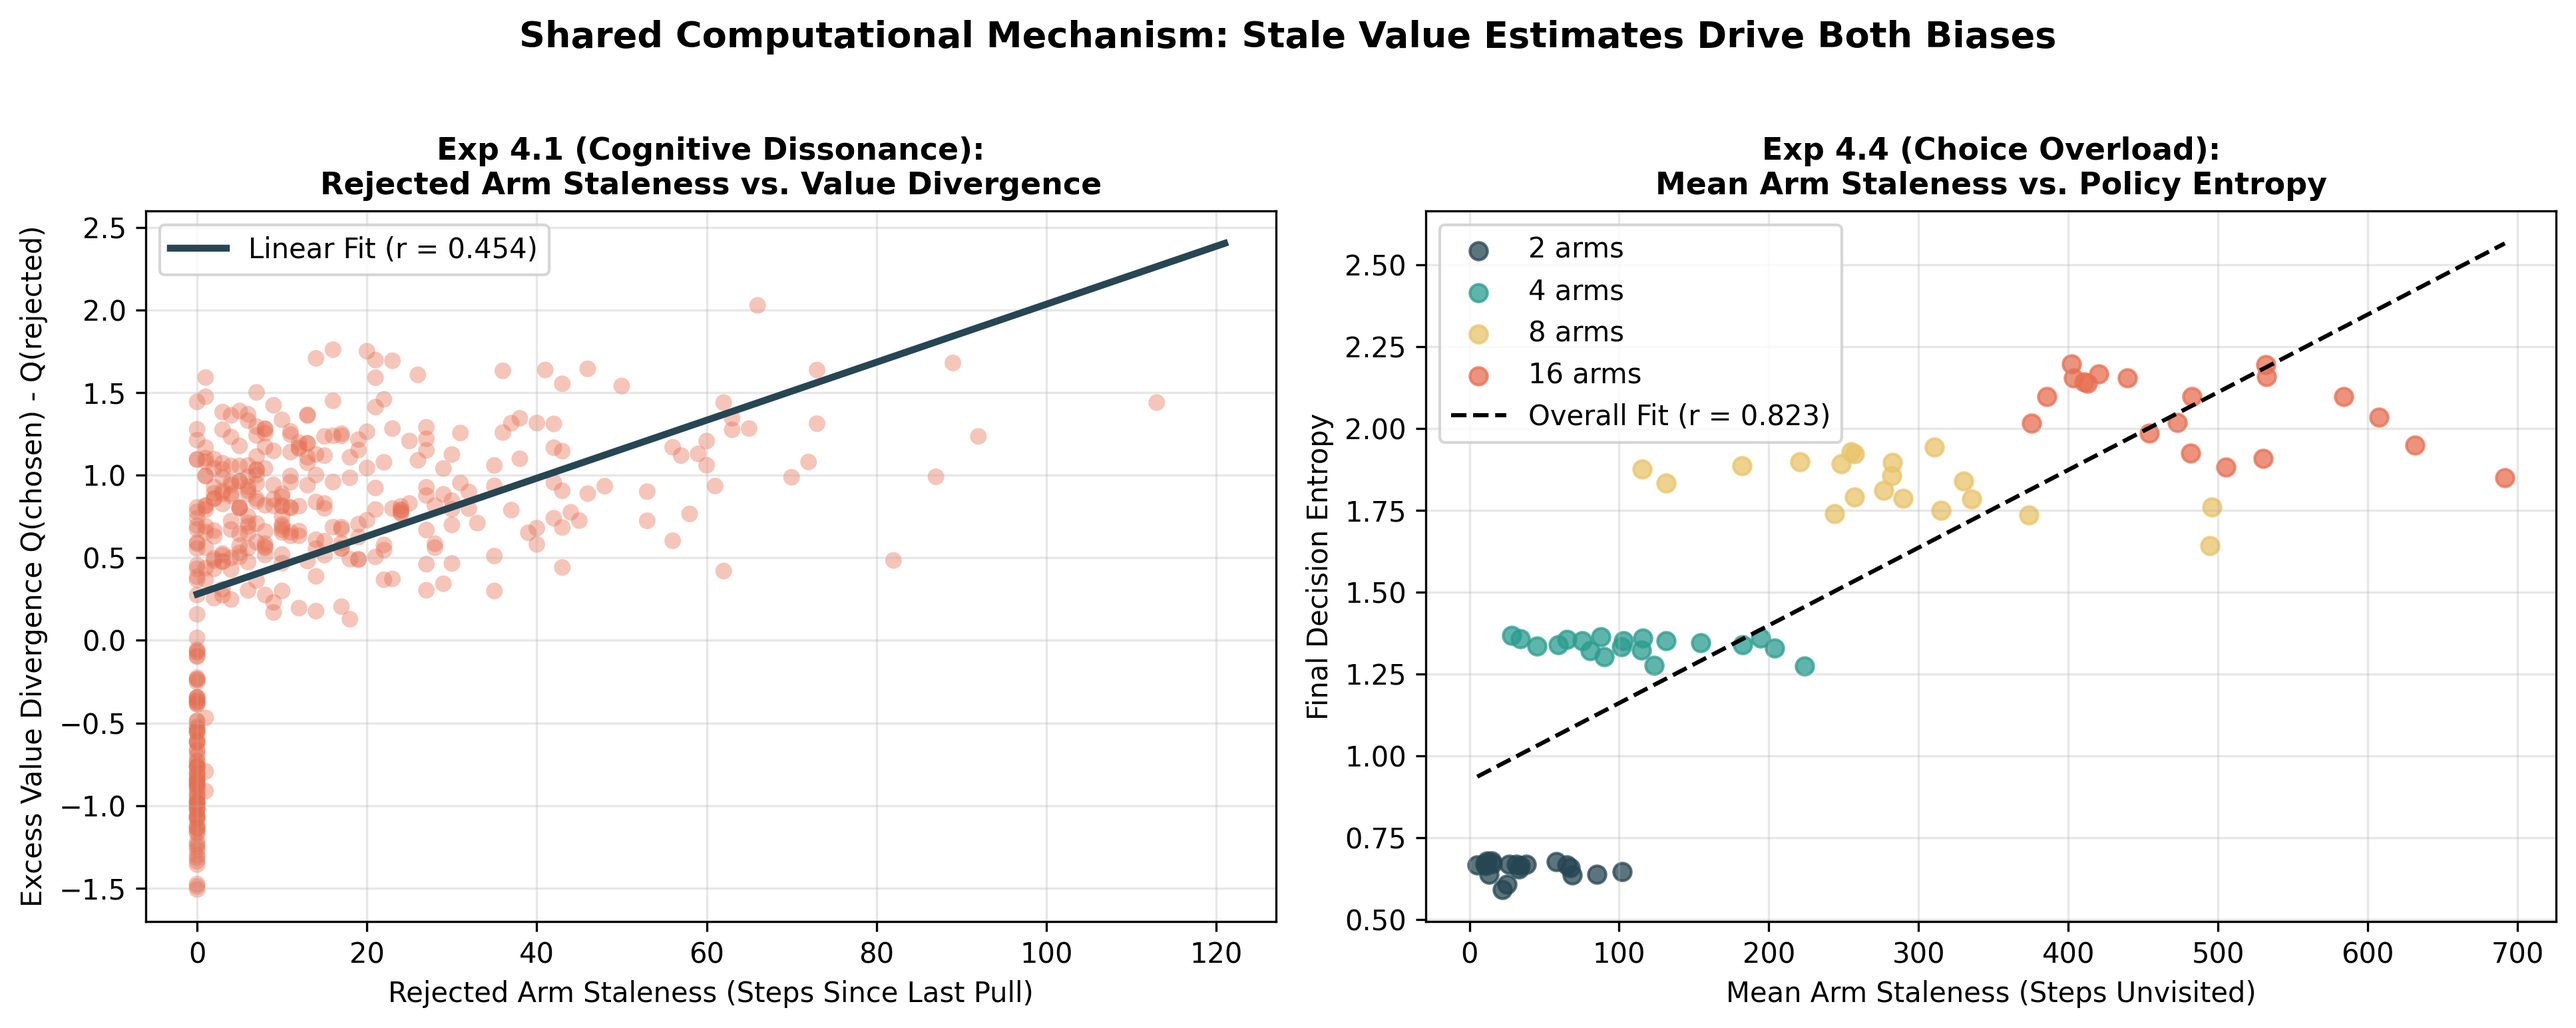
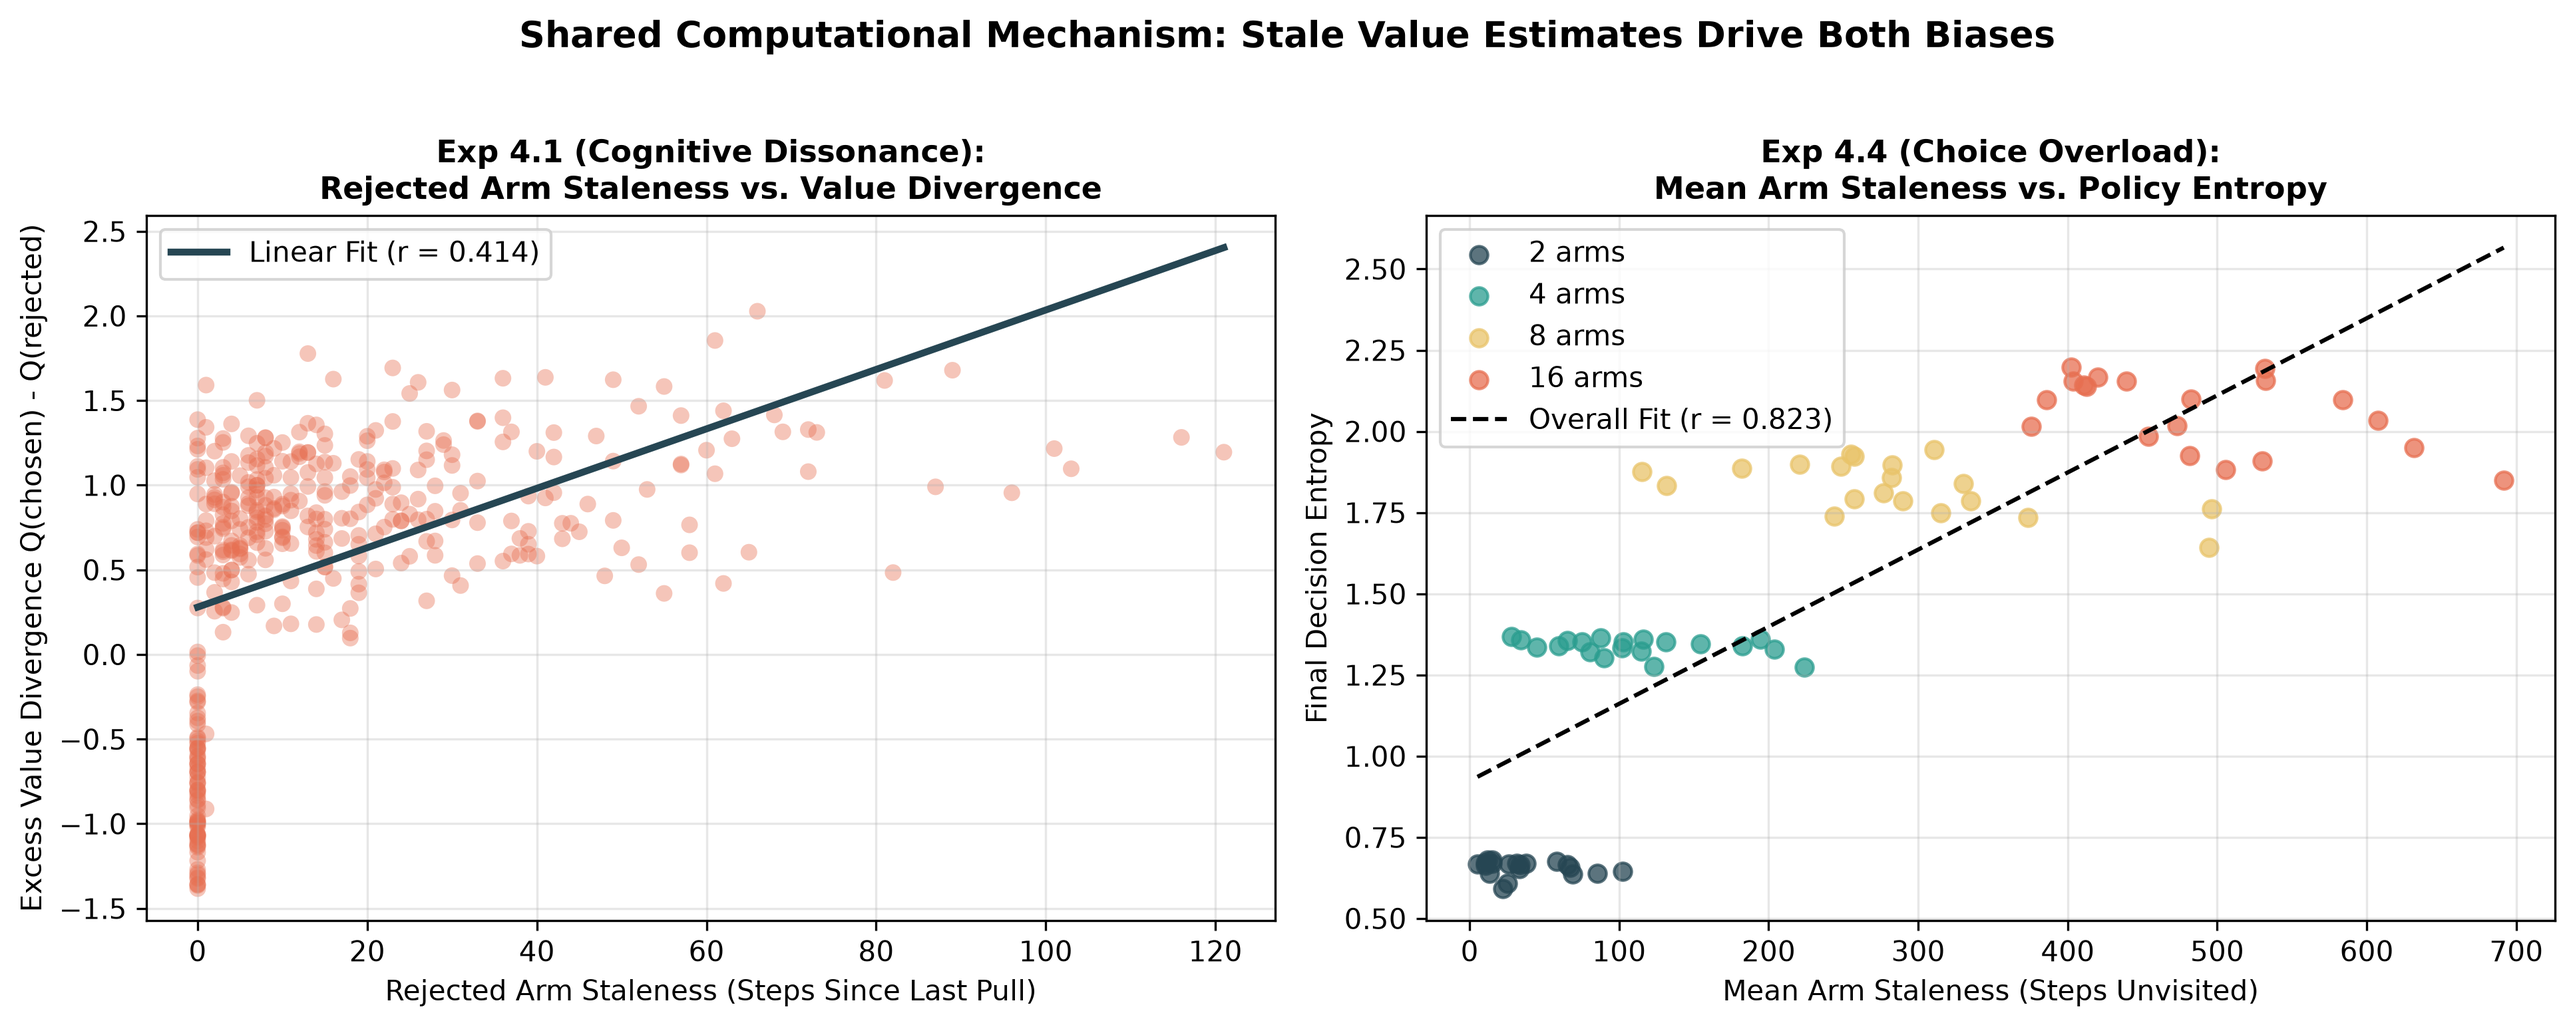
Add reconstructed references.bib; fix pseudo-replicated staleness correlation
- references.bib: reconstruct BibTeX for all 20 cited works (removed in an earlier
  cleanup). 16 canonical entries are accurate; 4 recent/niche entries are marked
  VERIFY with a note to check against primary sources before submission.
- shared_mechanism.py: the Exp 4.1 staleness-vs-divergence correlation pooled every
  (seed, step) timepoint into one Pearson r, which is pseudo-replication (p=4.47e-52
  was meaningless). Now compute the correlation within each seed and aggregate the
  20 independent per-seed estimates via Fisher-z: mean r=0.41, 95% CI [0.30, 0.51],
  p<1e-6 (N=20). Exp 4.4 (r=0.82) is left as-is: its 80 points are one independent
  run per (seed, K).
- paper.tex: update the two staleness stats and the figure caption to the honest
  per-seed values; regenerate shared_mechanism_staleness.png.

Claude-Session: https://claude.ai/code/session_01NRJyUYQCszH2hBx1Gy8SiG

diff --git a/src/analysis/shared_mechanism.py b/src/analysis/shared_mechanism.py
@@ -90,6 +90,7 @@ def analyze_shared_mechanism(results_dir: str = "results/cross_experiment_analys
                 q_vals = agent.get_q_values(0)
                 div = q_vals[chosen_arm] - q_vals[rej_arm]
                 dissonance_staleness_records.append({
+                    "seed": seed,
                     "step": step,
                     "rej_staleness": rej_staleness,
                     "value_divergence": div,
@@ -158,11 +159,37 @@ def analyze_shared_mechanism(results_dir: str = "results/cross_experiment_analys
             })
 
     # Correlations
-    # Exp 4.1: Staleness vs Divergence
+    # Exp 4.1: Staleness vs Divergence.
+    # IMPORTANT: pooling every (seed, step) timepoint into one correlation is
+    # pseudo-replication -- timepoints within a seed are strongly autocorrelated,
+    # so the pooled n is not the number of independent units and the resulting
+    # p-value is meaningless. We instead compute the correlation WITHIN each seed
+    # (across its timepoints) and aggregate the 20 independent per-seed estimates
+    # via a Fisher z-transform, reporting the mean r, a 95% CI, and a one-sample
+    # test against zero with n = 20 seeds.
     stale_4_1 = [r["rej_staleness"] for r in dissonance_staleness_records]
     div_4_1 = [r["value_divergence"] for r in dissonance_staleness_records]
-    r_4_1, p_4_1 = pearsonr(stale_4_1, div_4_1)
-    print(f"\nExp 4.1 Staleness vs Value Divergence: r = {r_4_1:.4f} (p = {p_4_1:.4e})")
+
+    per_seed_r = []
+    for sd in range(n_seeds):
+        s_vals = [r["rej_staleness"] for r in dissonance_staleness_records if r["seed"] == sd]
+        d_vals = [r["value_divergence"] for r in dissonance_staleness_records if r["seed"] == sd]
+        if len(s_vals) > 2 and np.std(s_vals) > 0 and np.std(d_vals) > 0:
+            per_seed_r.append(pearsonr(s_vals, d_vals)[0])
+    per_seed_r = np.array(per_seed_r)
+
+    # Fisher z-transform aggregation across the independent per-seed correlations
+    z = np.arctanh(np.clip(per_seed_r, -0.9999, 0.9999))
+    from scipy.stats import t as _t
+    mean_z, se_z = np.mean(z), np.std(z, ddof=1) / np.sqrt(len(z))
+    r_4_1 = float(np.tanh(mean_z))                      # aggregate correlation
+    tcrit = _t.ppf(0.975, df=len(z) - 1)
+    ci_4_1 = (float(np.tanh(mean_z - tcrit * se_z)), float(np.tanh(mean_z + tcrit * se_z)))
+    t_stat_4_1 = float(mean_z / se_z)
+    p_4_1 = float(2 * _t.sf(abs(t_stat_4_1), df=len(z) - 1))  # one-sample test vs 0, n=20
+    print(f"\nExp 4.1 Staleness vs Value Divergence (per-seed, N={len(z)} seeds): "
+          f"mean r = {r_4_1:.3f}, 95% CI [{ci_4_1[0]:.3f}, {ci_4_1[1]:.3f}], "
+          f"t({len(z)-1}) = {t_stat_4_1:.2f}, p = {p_4_1:.2e}")
 
     # Exp 4.4: Mean Staleness vs Final Entropy
     all_k_stale = []
@@ -224,8 +251,13 @@ def analyze_shared_mechanism(results_dir: str = "results/cross_experiment_analys
     summary = {
         "exp_4_1_staleness_divergence_r": float(r_4_1),
         "exp_4_1_staleness_divergence_p": float(p_4_1),
+        "exp_4_1_method": "per-seed correlation, Fisher-z aggregated (N=20 independent seeds)",
+        "exp_4_1_r_ci95": [ci_4_1[0], ci_4_1[1]],
+        "exp_4_1_n_seeds": int(len(z)),
+        "exp_4_1_per_seed_r": [float(x) for x in per_seed_r],
         "exp_4_4_staleness_entropy_r": float(r_4_4),
         "exp_4_4_staleness_entropy_p": float(p_4_4),
+        "exp_4_4_n_runs": len(all_k_stale),  # one independent run per (seed, K)
         "arm_counts": arm_counts,
         "mean_staleness_by_k": {
             str(k): float(np.mean([r["mean_staleness"] for r in overload_staleness_records[k]]))

diff --git a/latex/paper.tex b/latex/paper.tex
@@ -201,12 +201,12 @@ Mean Regret           & $0.024\pm0.031$ & $0.028\pm0.033$ & $0.025\pm0.036$ & $0
 
 \subsection{Shared Mechanism: Action Visitation Staleness}
 
-Both Cognitive Dissonance and Choice Overload share a single mathematical root. Define staleness $\tau_a(t)=t-\max\{t'\leq t: a_{t'}=a\}$. After commitment, $\tau_{\text{rejected}}\to\infty$ and $Q(a_{\text{rejected}})\to0$ under decay, driving divergence. With $K$ near-tied options, $\mathbb{E}[\tau]\propto K$, diluting value separation. Empirically ($N=20$ seeds): rejected-arm staleness predicts excess value divergence ($r=0.4543$, $p=4.47\times10^{-52}$) and mean staleness predicts policy entropy ($r=0.8226$, $p=8.19\times10^{-21}$; Fig.~\ref{fig:shared_mechanism}).
+Both Cognitive Dissonance and Choice Overload share a single mathematical root. Define staleness $\tau_a(t)=t-\max\{t'\leq t: a_{t'}=a\}$. After commitment, $\tau_{\text{rejected}}\to\infty$ and $Q(a_{\text{rejected}})\to0$ under decay, driving divergence. With $K$ near-tied options, $\mathbb{E}[\tau]\propto K$, diluting value separation. Empirically, rejected-arm staleness predicts excess value divergence (per-seed mean $r=0.41$, 95\% CI $[0.30,0.51]$, $p<10^{-6}$ across $N=20$ independent seeds) and mean staleness predicts policy entropy ($r=0.82$, $p<10^{-20}$ across 80 independent runs; Fig.~\ref{fig:shared_mechanism}).
 
 \begin{figure}[htbp]
 \centering
 \includegraphics[width=\linewidth]{figures/shared_mechanism_staleness.png}
-\caption{Shared staleness mechanism. (Left) Rejected-arm staleness predicts post-decision value divergence ($r=0.454$, $p<10^{-50}$). (Right) Mean staleness predicts policy entropy ($r=0.823$, $p<10^{-20}$). Both Free biases share a common computational root.}
+\caption{Shared staleness mechanism. (Left) Rejected-arm staleness predicts post-decision value divergence (per-seed mean $r=0.41$, $p<10^{-6}$). (Right) Mean staleness predicts policy entropy ($r=0.82$, $p<10^{-20}$). Both Free biases share a common computational root.}
 \label{fig:shared_mechanism}
 \end{figure}
 
